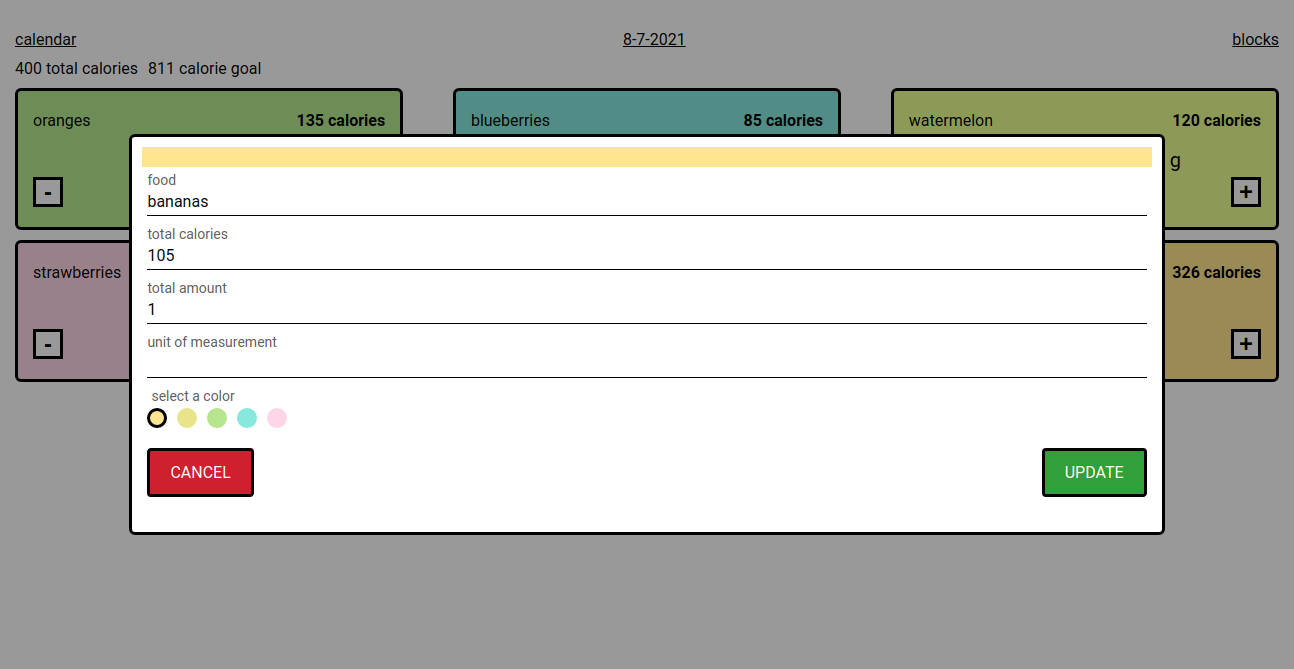
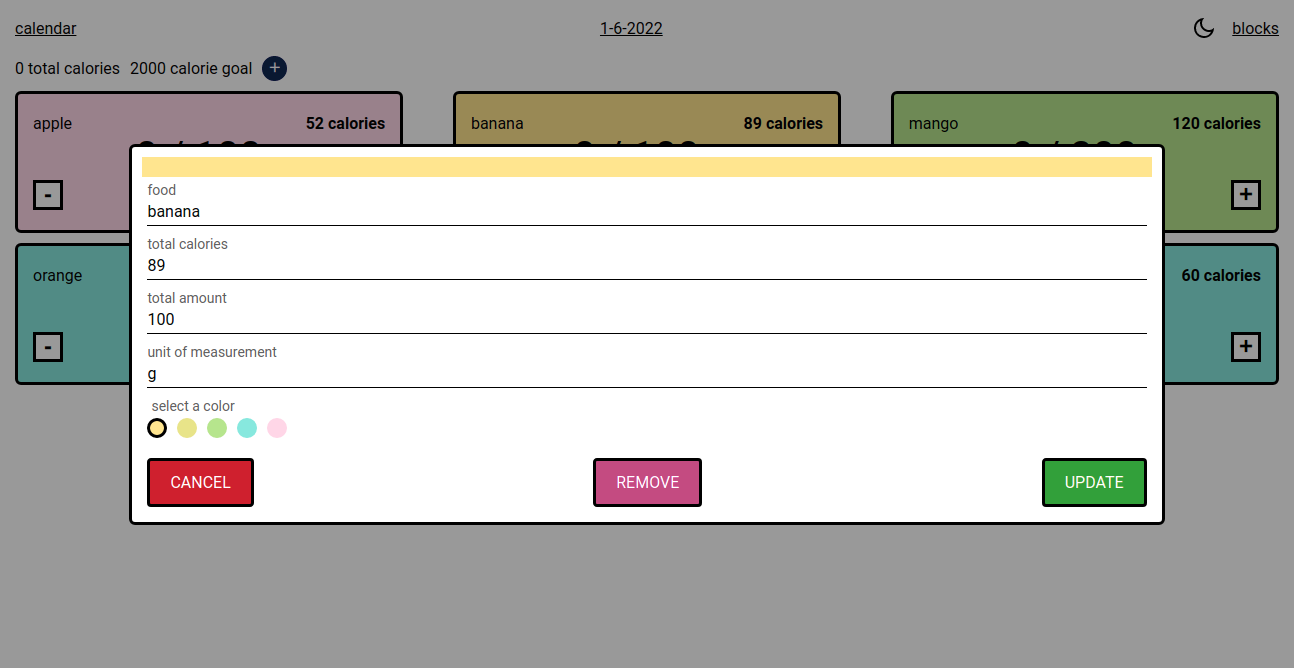
replace animal buddies with calorie tracker and modify wording

Changed region(s): [[0.0, 0.0299, 0.9892, 0.8084], [0.9274, 0.0299, 0.9892, 0.0898], [0.4637, 0.0299, 0.5255, 0.0898]]

diff --git a/_projects/calorie-tracker.md b/_projects/calorie-tracker.md
@@ -6,7 +6,7 @@ meta: A Progressive Web App to keep track of calories in a fun and interactive w
 description: Front End Technologies
 permalink: /calorie-tracker
 published: true
-order: 5
+order: 3
 emoji: 😀
 ---
 
@@ -14,9 +14,6 @@ emoji: 😀
 
 <p class="project__intro">
  <a href="https://calorie-tracker.vercel.app/">visit web app</a>
-</p>
-<p class="project__intro">
- <a href="https://www.figma.com/file/dcEdzCTNeaVPuyk8PRzJI1/calorie-tracker?node-id=0%3A1">screenshots of calorie tracker</a>
 </p>
 
 <a href="https://calorie-tracker.vercel.app/">
@@ -60,25 +57,26 @@ Select a date from the calendar and start adding food to keep track of calories.
 
 The food blocks are stored in localStorage which allows the web app to perform CRUD operations offline. 
 
-The food blocks were designed for ease of use and look fun by giving it a cartoonish feel.
+The food blocks were designed for ease of use and to look fun by giving it a cartoonish feel.
 
 <div class="case-study__img-container">
     <img src="{{ site.baseurl }}/images/calorie-tracker-food-block.png" alt="calorie tracker food block" title="calorie tracker food block">
 </div>
 
-When food blocks are updated the inputs values are checked with previous one to determine if is new or it is already exists. If the food block is new it is added to the previous food blocks array in localStorage.
 
-![calorie tracker modal]({{ site.baseurl }}/images/calorie-tracker-modal.png "calorie tracker modal")
+To ease the flow of creating a food block a button is added to the home screen thats add a new empty food block and opens a modal with that food block to fill in the data.
 
-The previous food blocks are shown when opening the add a food block modal.
+Also when clicking on a food block a modal opens with a form to edit the food block data.
 
 ![calorie tracker edit food block modal]({{ site.baseurl }}/images/calorie-tracker-edit-food-block-modal.png "calorie tracker edit food block modal")
 
-When I wanted to change a food block it wasn't convenient because I had to go to the food blocks page then look for it. To make it easier to edit a food block I added a modal that opens when clicking on a food block.
+One of the previous 10 days can be duplicated and merged with the current day.
+
+![calorie tracker duplicate previous day]({{ site.baseurl }}/images/calorie-tracker-duplicate-previous-day.png "calorie tracker duplicate previous day")
 
 ### snackbars
 
-I noticed when I submitted forms It seemed that they didn't do anything because there weren't any visual queues. I decided to use Snackbars to make it clear that the forms were submitted.
+I noticed when I submitted forms it seemed that they didn't do anything because there weren't any visual cues. I decided to use Snackbars to make it clear that the forms were submitted.
 
 ![pink Snackbar]({{ site.baseurl }}/images/calorie-tracker-pink-snackbar.png "pink Snackbar")
 
@@ -90,6 +88,21 @@ Confetti falls from the top of the screen when the calorie goal is met.
 
 ![confetti]({{ site.baseurl }}/images/calorie-tracker-confetti.png "confetti")
 
+### mobile nav
+
+On mobile the nav is moved to the bottom of the screen to provide a native like experience.
+
+
+<div class="case-study__img-container">
+    <img src="{{ site.baseurl }}/images/calorie-tracker-mobile.png" alt="calorie tracker mobile" title="calorie tracker mobile">
+</div>
+
+### ☀ themes 🌙
+
+It auto detects and applies preferred theme. 
+
+![calorie tracker dark theme]({{ site.baseurl }}/images/calorie-tracker-dark-theme.png "calorie tracker dark theme")
+
 
 ### add to home screen
 
@@ -97,4 +110,4 @@ You can add it to your home screen to easily revisit it again.
 
 ### offline functionality
 
-All the pages are available offline. I used localStorage as a database to store food blocks. This makes the user experience feel smooth and interactive.
+All pages and functionality work offline. localStorage is used as a database to store food blocks. 

diff --git a/_projects/animal-buddies.md b/_projects/animal-buddies.md
@@ -6,7 +6,7 @@ meta: A website to view, like and sort posts about animals 😀
 description: Front End Technologies
 permalink: /animal-buddies
 published: true
-order: 3
+order: 5
 emoji: 💡
 ---
 
